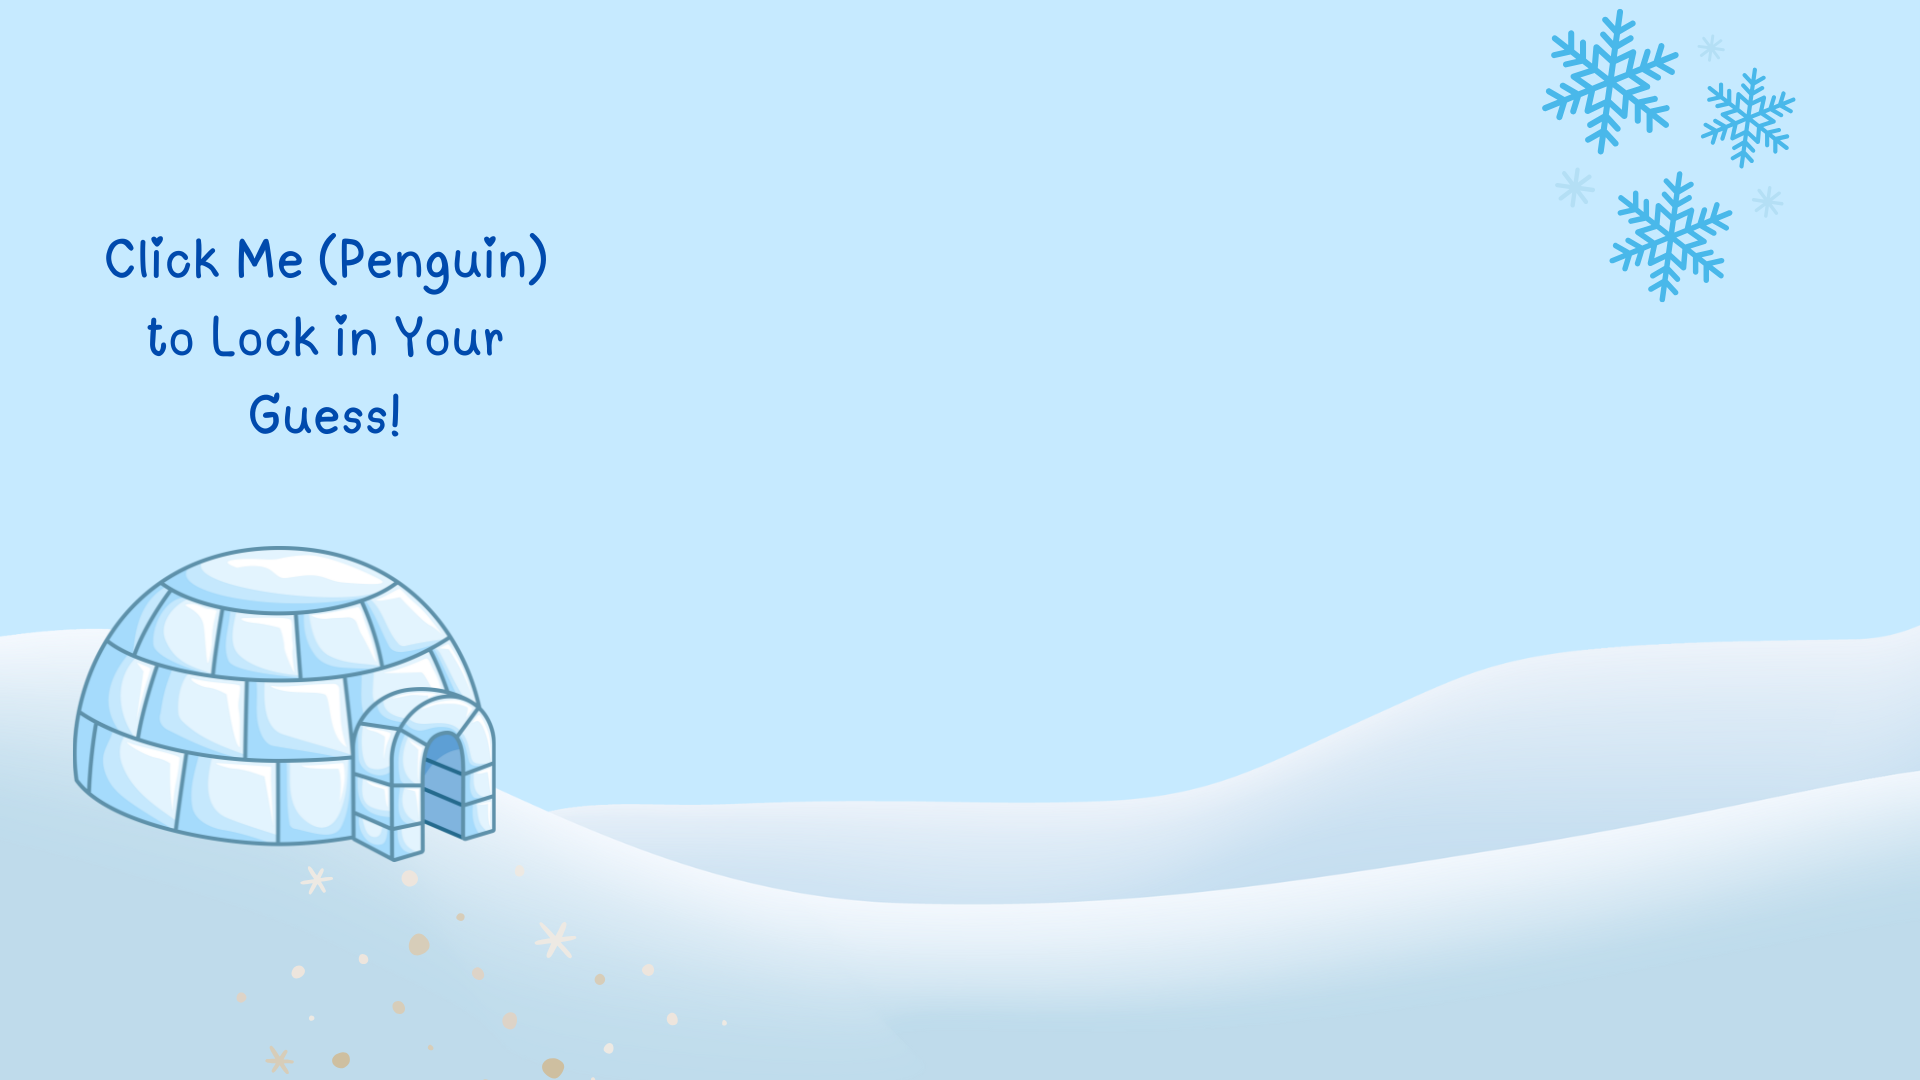
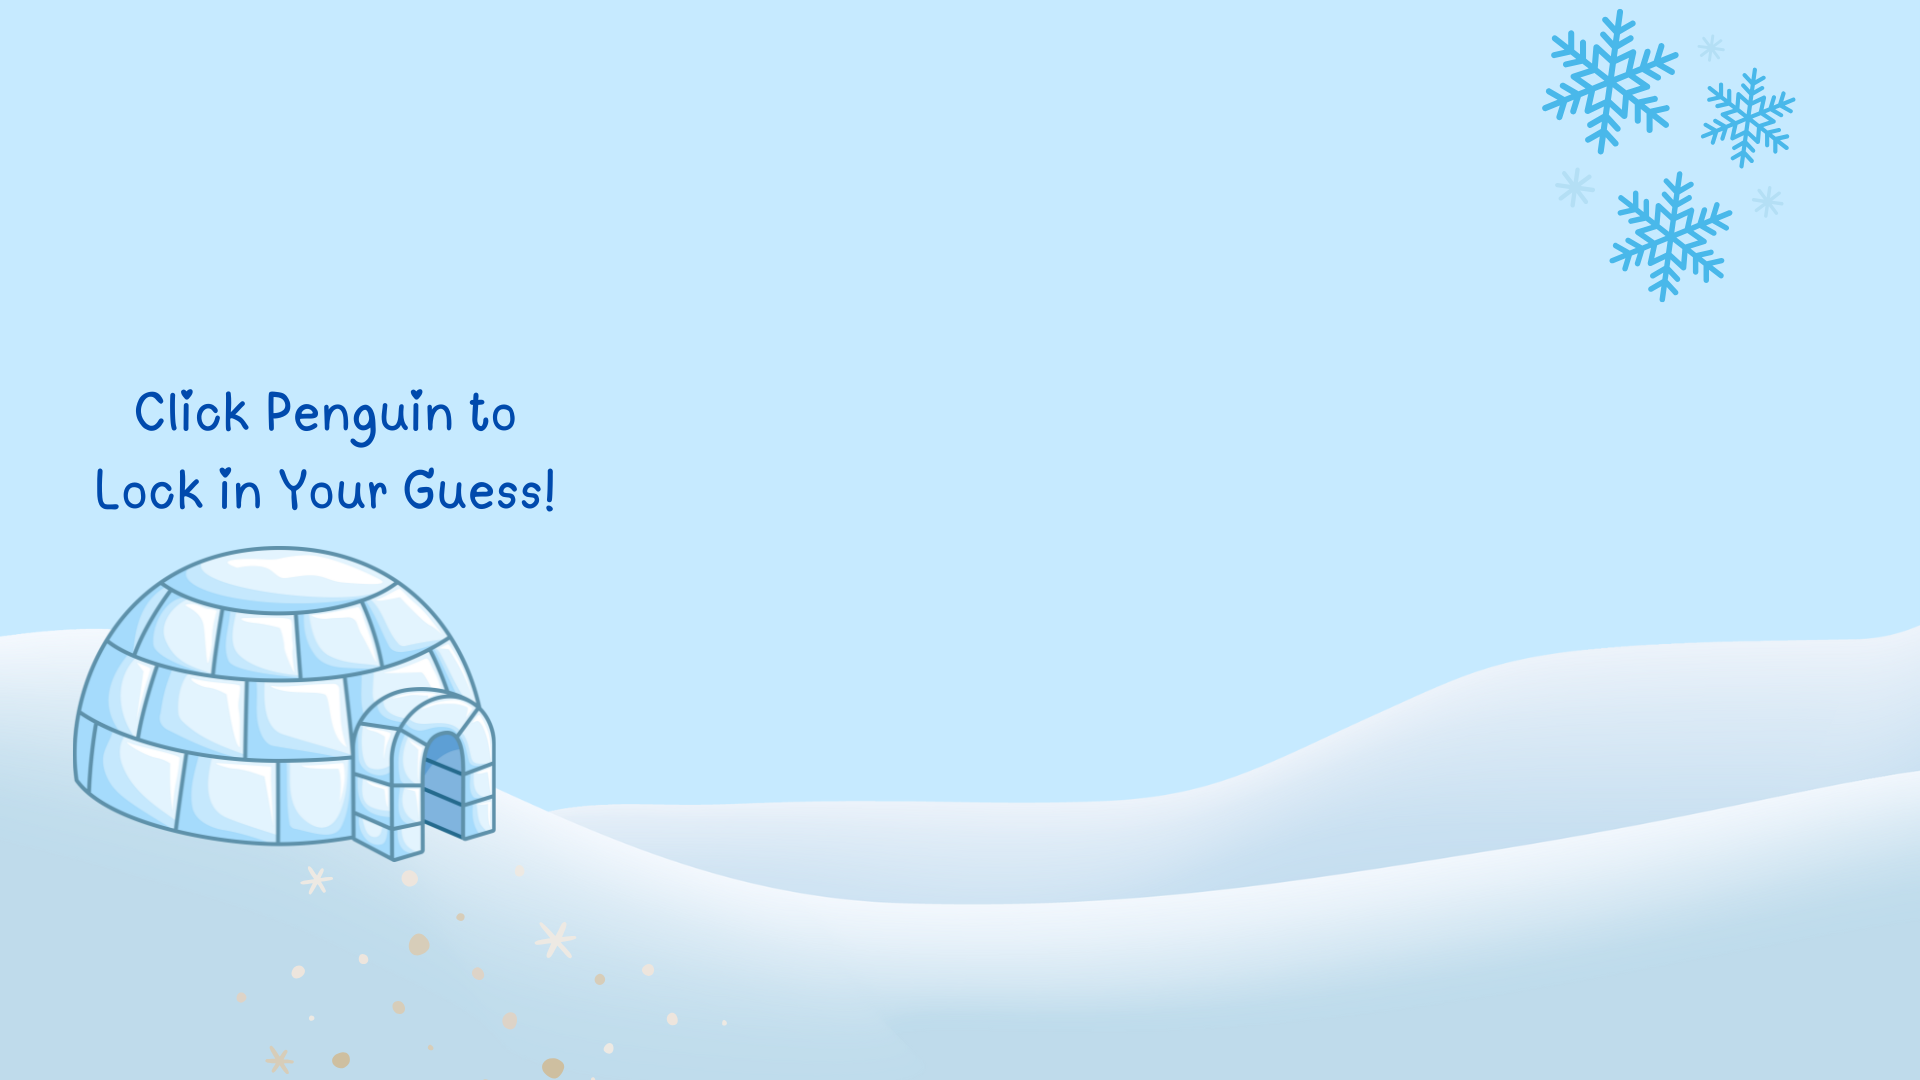
Edit bonus

Changed region(s): [[0.0625, 0.3667, 0.2812, 0.4889], [0.0625, 0.2139, 0.2812, 0.275], [0.0625, 0.3056, 0.2812, 0.3361]]

diff --git a/public/sep1625_bonus.html b/public/sep1625_bonus.html
@@ -12,61 +12,72 @@
 
 <body>
     <div class = "page">
-    <h1 id = "title">Guess My Word!</h1>
-    <p id="wordDisplay"></p>
     <div class = "input">
+        <h1 id = "title">Guess My Word!</h1>
+        <p id="wordDisplay"></p>
         <input type="text" id="guessInput" maxlength="1">
-        <img id = "penguinImage" src="../sep1625_img.png" onclick="makeGuess()"></button>
+        <br> 
+        <div id = "failedAttempts"></div>
+        <br> 
+        <p id="message"></p>
+        <br>
+        <div id = usedLetters><b>Incorrect Guesses:<b> </div>
     </div>
-    <div id = "failedAttempts"></div>
-    <div id = usedLetters>(Ahem- Badly) Guessed Letters: </div>
-    <p id="message"></p>
+    <img id = "penguinImage" src="../sep1625_img.png" onclick="makeGuess()"></button>
     </div>
 
     <script>
-    // word part    
     let secretWord = ["i", "g", "l", "o", "o"];
     let guessedWord = ["_", "_", "_", "_", "_"];
-    let guessedLetters = [];
 
     document.getElementById("wordDisplay").textContent = guessedWord.join(" ");
+    
+    let incorrectGuesses = [];
+    let usedLetters = document.getElementById("usedLetters");
 
-    let attempts = document.getElementById("failedAttempts");
-    let noOfAttempts = 5;
-    attempts.innerHTML = `Number of Attempts Left: ${noOfAttempts}`;
+    let attemptsLeft = 5;
+    let attempts = document.getElementById("failedAttempts"); 
+    attempts.innerHTML += `<b>Number of Tries Left:<b> <i>${attemptsLeft}<i>`;
 
     function makeGuess() {
         let guess = document.getElementById("guessInput").value.toLowerCase();
         let correct = false;
 
         for (let i = 0; i < secretWord.length; i++) {
-        if (secretWord[i] === guess)) {
-            guessedWord[i] = guess;
-            correct = true;
-        }
+            if (secretWord[i] === guess) {
+                guessedWord[i] = guess;
+                correct = true;
+            }
         }
 
         if (correct == false)
         {
-            noOfAttempts -= 1;
-            
-            for(let i = 0; i < guessedLetters.length; i++)
-            {
-                if((guess != guessedLetters[i]) && (guess != ""))
+            let addToList = true; 
+
+            attemptsLeft--; 
+            attempts.innerHTML = `Number of Tries Left: ${attemptsLeft}`;
+
+            for (let i = 0; i < incorrectGuesses.length; i++){
+                if(guess != incorrectGuesses[i])
+                    addToList = true; 
+                else 
                 {
-                    guessedLetters.push(guess) 
-                    document.getElementById("usedLetters").innerHTML += "<li>guess</li>";
+                    addToList = false; 
+                    break; 
                 }
             }
+
+            if (addToList == true)
+            {
+                usedLetters.innerHTML += guess + " ";
+            }
         }
-        attempts.innerHTML = `Number of Attempts Left: ${noOfAttempts}`;
 
         document.getElementById("wordDisplay").textContent = guessedWord.join(" ");
         document.getElementById("message").textContent = correct ? "✅ Correct!" : "❌ Try again.";
         document.getElementById("guessInput").value = "";
-
     }
-    </script>
+</script>
 
 </body>
-</html>
+</html> 

diff --git a/styles_sep1625.css b/styles_sep1625.css
@@ -8,7 +8,7 @@ body {
     font-size: 1.5rem;
     text-align: center;
     background-image: url(sep1625_bg.png);
-    background-size: cover; background-position-y: top;
+    background-size: cover;
 }
 
 .page {
@@ -16,10 +16,24 @@ body {
     margin: 0; padding: 0;
 }
 
-#penguinImage { 
-    height: min-content; width: min-content; 
+#penguinImage {
+    height: 80%; width: 65%;
+    transform: translateX(15%);
+    display: flex;
+    float: left; 
 }
 
 .input {
-    margin: 10px;
+    margin: 10% 10%; padding: 50px; 
+    float: right; 
+    background-color: whitesmoke; color: #4169E1; 
+    border-radius: 20%;
+}
+
+input {
+    background-color: whitesmoke; color: #4169E1; 
+    font-family:"Lato", sans-serif;
+    font-size: 1.5rem;
+    margin: 15px; 
+    border-color: orange; 
 }
